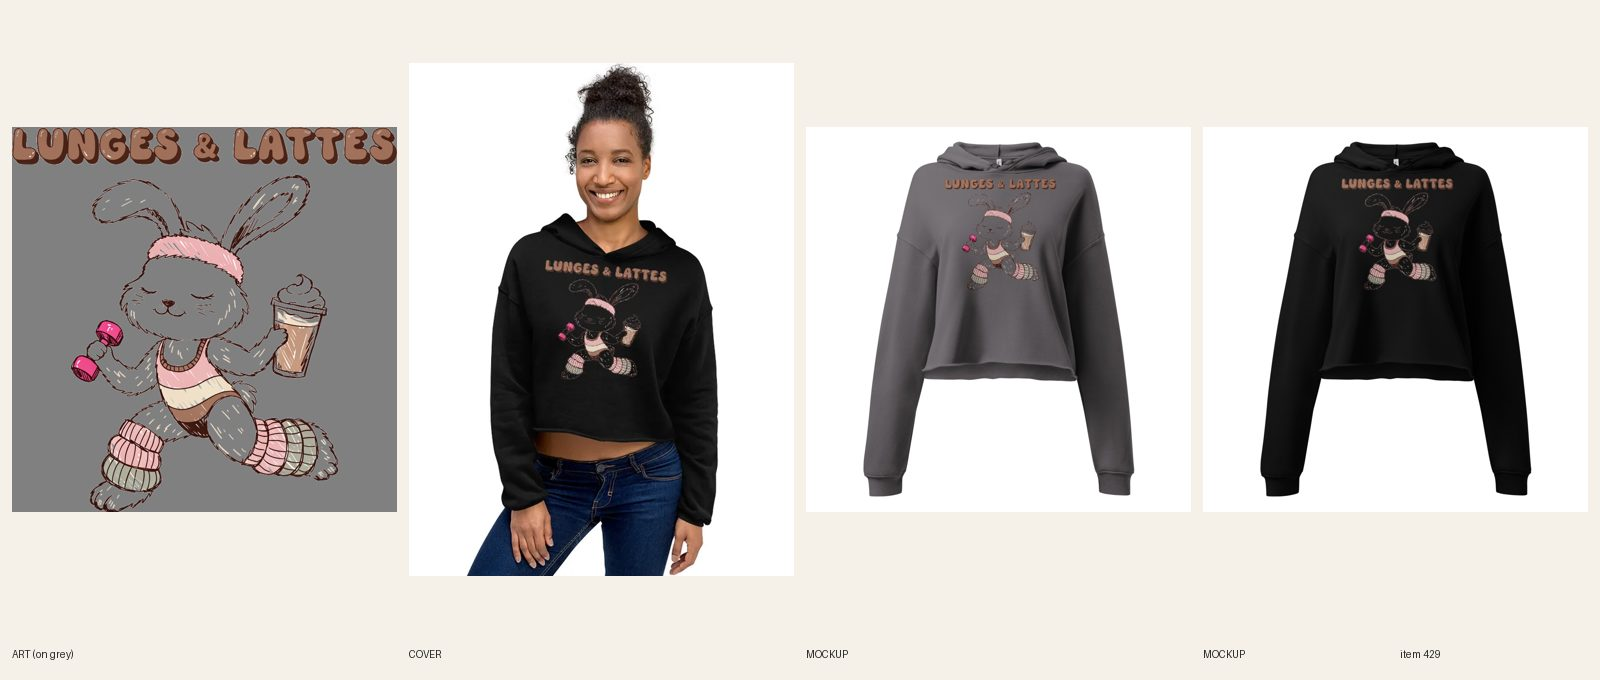
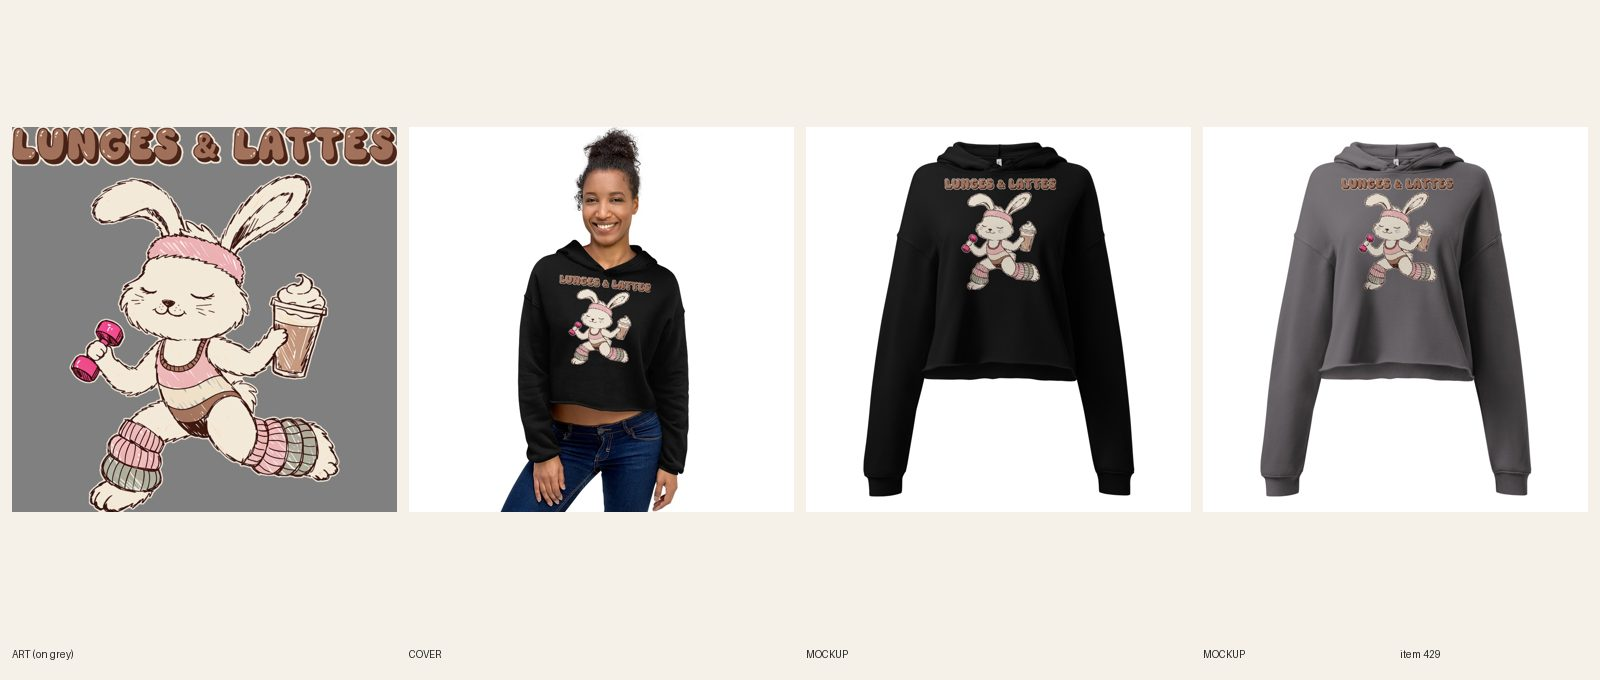
[B] review 429 Lunges & Lattes cropped hoodie redo

diff --git a/docs/intake-log.md b/docs/intake-log.md
@@ -1,3 +1,4 @@
+2026-10-17 13:56 UTC — [B] REVIEW #429 Lunges & Lattes cropped hoodie REDO done (cream bunny fill + lettering outline, re-synced 10/10, mockups and temp cover re-made).
 2026-10-17 13:30 UTC — [B] RUNNING lane B since 2026-10-17 13:30 UTC
 2026-10-17 13:25 UTC — [D] Director run 25: inbox had nothing new. 6 REVIEW items. 5 LIVE (ACTIVE + Online Store + Headless + Google & YouTube, audit --handle PASS 0 warn, pages 200, Telegram sent): #426 Desert Rattler hoodie U, #427 Steer Skull & Wildflowers hoodie W, #428 Charting Is My Cardio hoodie W, #430 Whisk Taker embroidered hoodie W, #431 Cherry Picked embroidered cropped hoodie W; all covers temp (swap), #426 first in line (shared style 1427, drawcords touch the print). #429 Lunges & Lattes cropped hoodie REDO: R5.3.8, the bunny's dark-brown linework vanishes on Storm and Black (Peach out of stock), cream fill/keyline asked; lettering outline too. Briefs #434-#443 lane B, #444 lane A, all new art (ART-NEXT drafts while fal is empty) from a fresh low-KD hoodie sweep (about 150 phrases measured, most already owned): KD ≤ 20 first, samurai cat 8,100/19, cherry blossom hoodie 1,900/20, maneki neko 201,000/20; then star hoodie 6,600/33, panda hoodie 1,900/25, tennis hoodie 1,600/24, eagle hoodie 1,600/34 (lane A), pig hoodie 1,300/26, octopus hoodie 720/30, chess hoodie 390/32, mothman hoodie 390/31. They feed anime (3), Y2K (3), cropped, oversized, zip-up men/women and heavyweight. No twin sources left among live tees: the remaining evergreen tees are badge art (football/baseball/soccer mom, nurse life, sweet tea, dirt road radio, wildflower club) and the pump cover has a typeset line; Nap Queen needs a re-letter. READY: lane A 12, lane B 16. Registry 628-641. Lock released.
 2026-10-17 15:20 UTC — [B] Run summary (fal empty, temp-cover mode): REVIEW #425 Technically Still Fishing hoodie, #426 Desert Rattler hoodie (art reshaped, FW 1500), #427 Steer Skull hoodie, #428 Charting Is My Cardio hoodie, #429 Lunges & Lattes cropped (reshaped), #430 Whisk Taker embroidered hoodie, #431 Cherry Picked embroidered cropped, #433 Loose Goose cropped (white goose fill) — all DRAFT, synced, cover: temp (swap). Left: #354 and #378-382/#385 need fal (cover / hand re-letter); ART-NEXT items wait for fal. Price chore not attempted (bulk variant update was denied earlier). Lock released.

diff --git a/docs/pipeline/429-gym-cropped-hoodie-lunges-and-lattes.md b/docs/pipeline/429-gym-cropped-hoodie-lunges-and-lattes.md
@@ -1,4 +1,4 @@
-status: REDO
+status: REVIEW
 cover: temp (swap)
 lane: B
 type: twin
@@ -27,3 +27,4 @@ kd: 30
   1. R5.3.8 / R5.3.4: the bunny is dark-brown linework with a see-through body, so on Storm and Black it disappears at phone size: on both mockups only the headband, leg warmers, dumbbell and latte read, the head, ears and body are a faint ghost. Peach is out of stock and every other 7502 color is dark, so fix the art, not the color: give the bunny a cream (#F3E9D8-ish) body fill inside its outline and switch the linework to the darkest brown with a thin cream halo (camo-halo.py, small close value so the gaps between legs and arm stay garment), or recolor the linework to cream. Keep the soft sketch look, no solid plate behind it (R4.1).
   2. R5.3.5: LUNGES & LATTES in mid brown is readable but low on Black; add a cream outline or lighten the fill one step so every letter pops on both colors.
   3. Re-make both mockups and the sheet; read every word and the bunny's face on the Black mockup at phone size before REVIEW. Keep FW 1500 and the 1500 px height.
+- 2026-10-17 13:55 UTC [B]: REDO done. Bunny now has a cream body fill inside its dark-brown outline (camo-halo FILL=1, close 45, halo 8, no plate), LUNGES & LATTES got a cream outline (halo 12, no fill). New file docs/print-files/429-lunges-and-lattes-cropped-v2.png (Printful 1088242936, 3600x3600), re-linked on 10/10 variants FW 1500 TOP 0 with back logo. Mockups Black + Storm + back replaced in place (fileUpdate); bunny face, body and every word read on Black at phone size. Temp cover re-made on the new art (style 1879 Black), cover: temp (swap). Sheet docs/review/429.jpg. Cohesion audit script crashes in this sandbox; copy/price/tags unchanged.
